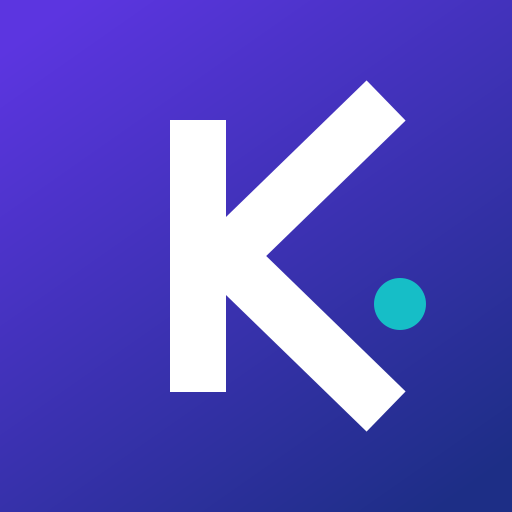
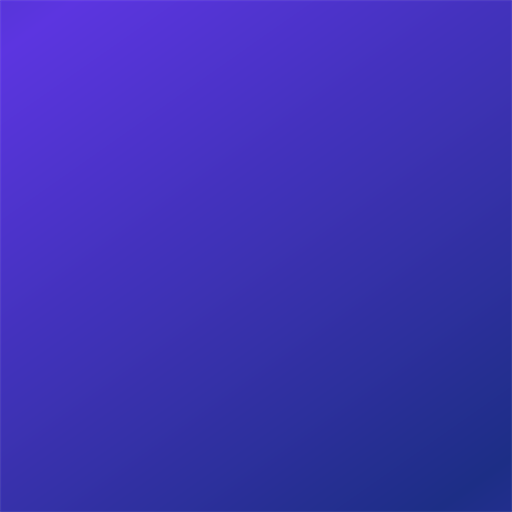
fix(mobile): réparer l'icône Android et ajouter l'écran de démarrage (#92)
Sur un premier lancement, l'icône du launcher affichait un K déformé avec
deux points turquoise, puis l'app enchaînait trois écrans avant d'être
utilisable.

L'icône adaptative venait du mauvais SVG source (5e4ea0e) : la couche
background était `keurflow-mark.svg`, la marque *complète* (dégradé + K +
point), et la couche foreground `keurflow-glyph.svg`, le glyphe seul mais à
une autre échelle. Android empile foreground sur background, donc le K et le
point étaient dessinés deux fois, décalés — et comme le K du background allait
jusqu'aux bords, le masque du launcher lui coupait les bras.

  - background : le dégradé seul, plein cadre
  - foreground : le glyphe seul, centré, à 0,720 pour que sa diagonale tienne
    dans le cercle de sécurité 66/108 d'Android
  - monochrome : même silhouette, recentré (il était décalé de ~20 px)
  - backgroundColor de repli : #3C32B3 (milieu du dégradé) au lieu du bleu
    pâle #E6F4FE, hors charte

La géométrie est reprise telle quelle de keurflow-mark.svg, la source de
vérité partagée avec le web — le mark lui-même n'est pas retouché. icon.png
(iOS/legacy) était déjà correct.

Il n'y avait par ailleurs aucun écran de démarrage : expo-splash-screen
n'était ni installé ni déclaré, donc splash-icon.png ne servait à rien. Le
premier lancement montrait un écran natif blanc, puis un flash sombre #08090d
codé en dur pendant le chargement des polices (même en thème clair), puis un
[…]

Changed region(s): [[0.3125, 0.1562, 0.8125, 0.8438], [0.7188, 0.5312, 0.8438, 0.6562]]

diff --git a/apps/mobile/app/_layout.tsx b/apps/mobile/app/_layout.tsx
@@ -12,21 +12,26 @@ import {
 import { Lora_400Regular, Lora_500Medium, Lora_600SemiBold, Lora_700Bold } from "@expo-google-fonts/lora";
 import { useFonts } from "expo-font";
 import { Slot, useRouter, useSegments } from "expo-router";
+import * as SplashScreen from "expo-splash-screen";
 import { StatusBar } from "expo-status-bar";
-import { useEffect } from "react";
-import { ActivityIndicator, View } from "react-native";
+import { useCallback, useEffect } from "react";
+import { View } from "react-native";
 import { GestureHandlerRootView } from "react-native-gesture-handler";
 import { SafeAreaProvider } from "react-native-safe-area-context";
 import { AuthProvider, useAuth } from "../src/lib/auth-context";
 import { DisplayCurrencyProvider } from "../src/lib/display-currency-context";
-import { ThemeProvider, useStyles, useTheme, type Theme } from "../src/theme";
+import { ThemeProvider, useTheme } from "../src/theme";
+
+// Must run in global scope, not in an effect — by the time a component mounts
+// the splash may already have auto-hidden, which is what left the first launch
+// showing a bare white screen followed by two spinner flashes.
+SplashScreen.preventAutoHideAsync();
+SplashScreen.setOptions({ duration: 300, fade: true });
 
 function RootNavigation() {
   const { session, loading } = useAuth();
   const segments = useSegments();
   const router = useRouter();
-  const theme = useTheme();
-  const styles = useStyles(createStyles);
 
   useEffect(() => {
     if (loading) return;
@@ -39,15 +44,22 @@ function RootNavigation() {
     }
   }, [session, loading, segments, router]);
 
-  if (loading) {
-    return (
-      <View style={styles.loading}>
-        <ActivityIndicator color={theme.colors.primary} />
-      </View>
-    );
-  }
+  // Hide on layout rather than in an effect: this fires once the first real
+  // frame is measured, so the splash never lifts onto an empty screen.
+  const onLayout = useCallback(() => {
+    SplashScreen.hideAsync();
+  }, []);
 
-  return <Slot />;
+  // The splash stays up for both waits — fonts (RootLayout) and the session
+  // lookup here — so there is one branded screen instead of a white flash, a
+  // dark flash, then a themed spinner.
+  if (loading) return null;
+
+  return (
+    <View style={{ flex: 1 }} onLayout={onLayout}>
+      <Slot />
+    </View>
+  );
 }
 
 export default function RootLayout() {
@@ -55,7 +67,7 @@ export default function RootLayout() {
   // front — the choice itself is only known once ThemeProvider reads it from
   // AsyncStorage, which happens *after* this, so there's no way to load just
   // the active one. "Système" needs nothing (native OS font).
-  const [fontsLoaded] = useFonts({
+  const [fontsLoaded, fontError] = useFonts({
     Geist_100Thin,
     Geist_200ExtraLight,
     Geist_300Light,
@@ -71,13 +83,11 @@ export default function RootLayout() {
     Lora_700Bold,
   });
 
-  if (!fontsLoaded) {
-    return (
-      <View style={{ flex: 1, alignItems: "center", justifyContent: "center", backgroundColor: "#08090d" }}>
-        <ActivityIndicator color="#6c5cd9" />
-      </View>
-    );
-  }
+  // null, not a spinner: the native splash is still up and covers this. Carry
+  // on when the fonts fail rather than waiting forever — the splash only lifts
+  // once this renders, so hanging here would strand the user on it. The theme's
+  // "Système" option is a working fallback.
+  if (!fontsLoaded && !fontError) return null;
 
   return (
     <SafeAreaProvider>
@@ -98,15 +108,4 @@ export default function RootLayout() {
 function ThemedStatusBar() {
   const { scheme } = useTheme();
   return <StatusBar style={scheme === "dark" ? "light" : "dark"} />;
-}
-
-function createStyles(theme: Theme) {
-  return {
-    loading: {
-      flex: 1,
-      alignItems: "center" as const,
-      justifyContent: "center" as const,
-      backgroundColor: theme.colors.background,
-    },
-  };
 }

diff --git a/apps/mobile/src/lib/auth-context.tsx b/apps/mobile/src/lib/auth-context.tsx
@@ -30,11 +30,20 @@ export function AuthProvider({ children }: { children: ReactNode }) {
   const [loading, setLoading] = useState(true);
 
   useEffect(() => {
-    supabase.auth.getSession().then(({ data }) => {
-      setSession(data.session);
-      setLoading(false);
-      if (data.session) acceptPendingInvites();
-    });
+    supabase.auth
+      .getSession()
+      .then(({ data }) => {
+        setSession(data.session);
+        setLoading(false);
+        if (data.session) acceptPendingInvites();
+      })
+      .catch((error) => {
+        // The splash screen stays up until `loading` clears, so a rejection
+        // here would strand the user on it forever. Treat it as signed out.
+        console.error("[AuthProvider] getSession failed:", error);
+        setSession(null);
+        setLoading(false);
+      });
 
     const { data: subscription } = supabase.auth.onAuthStateChange((event, newSession) => {
       setSession(newSession);
